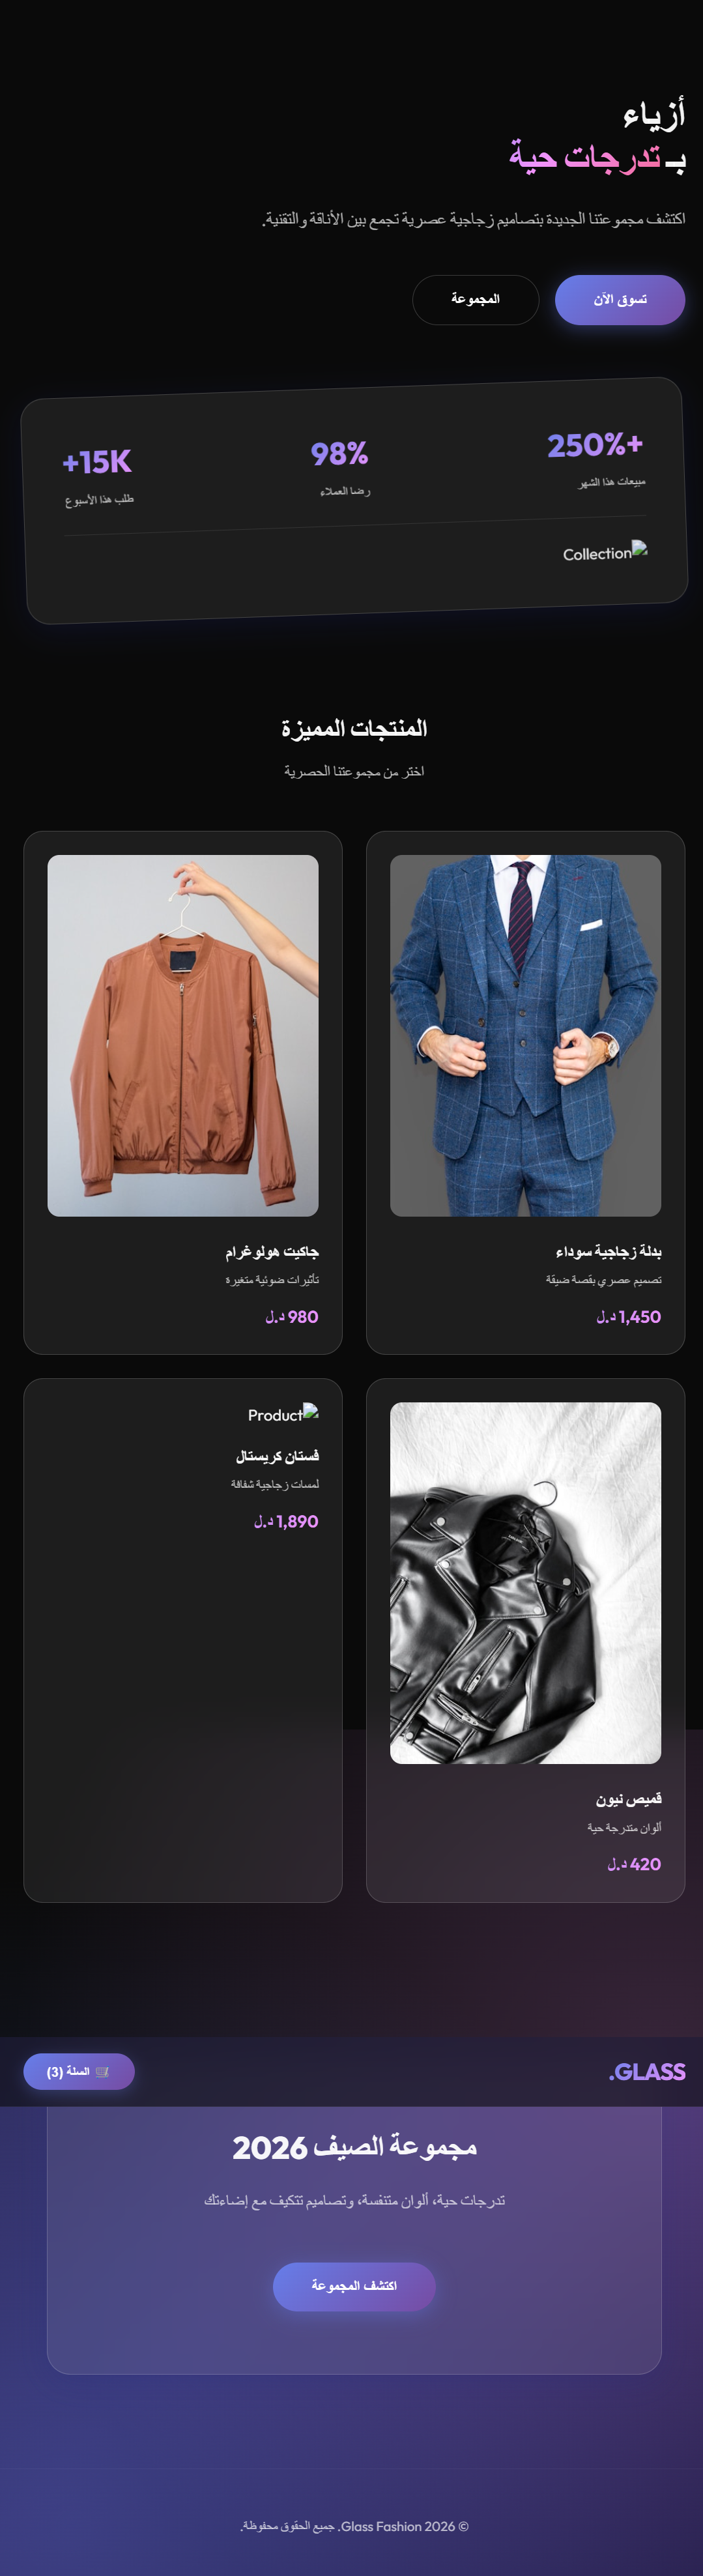
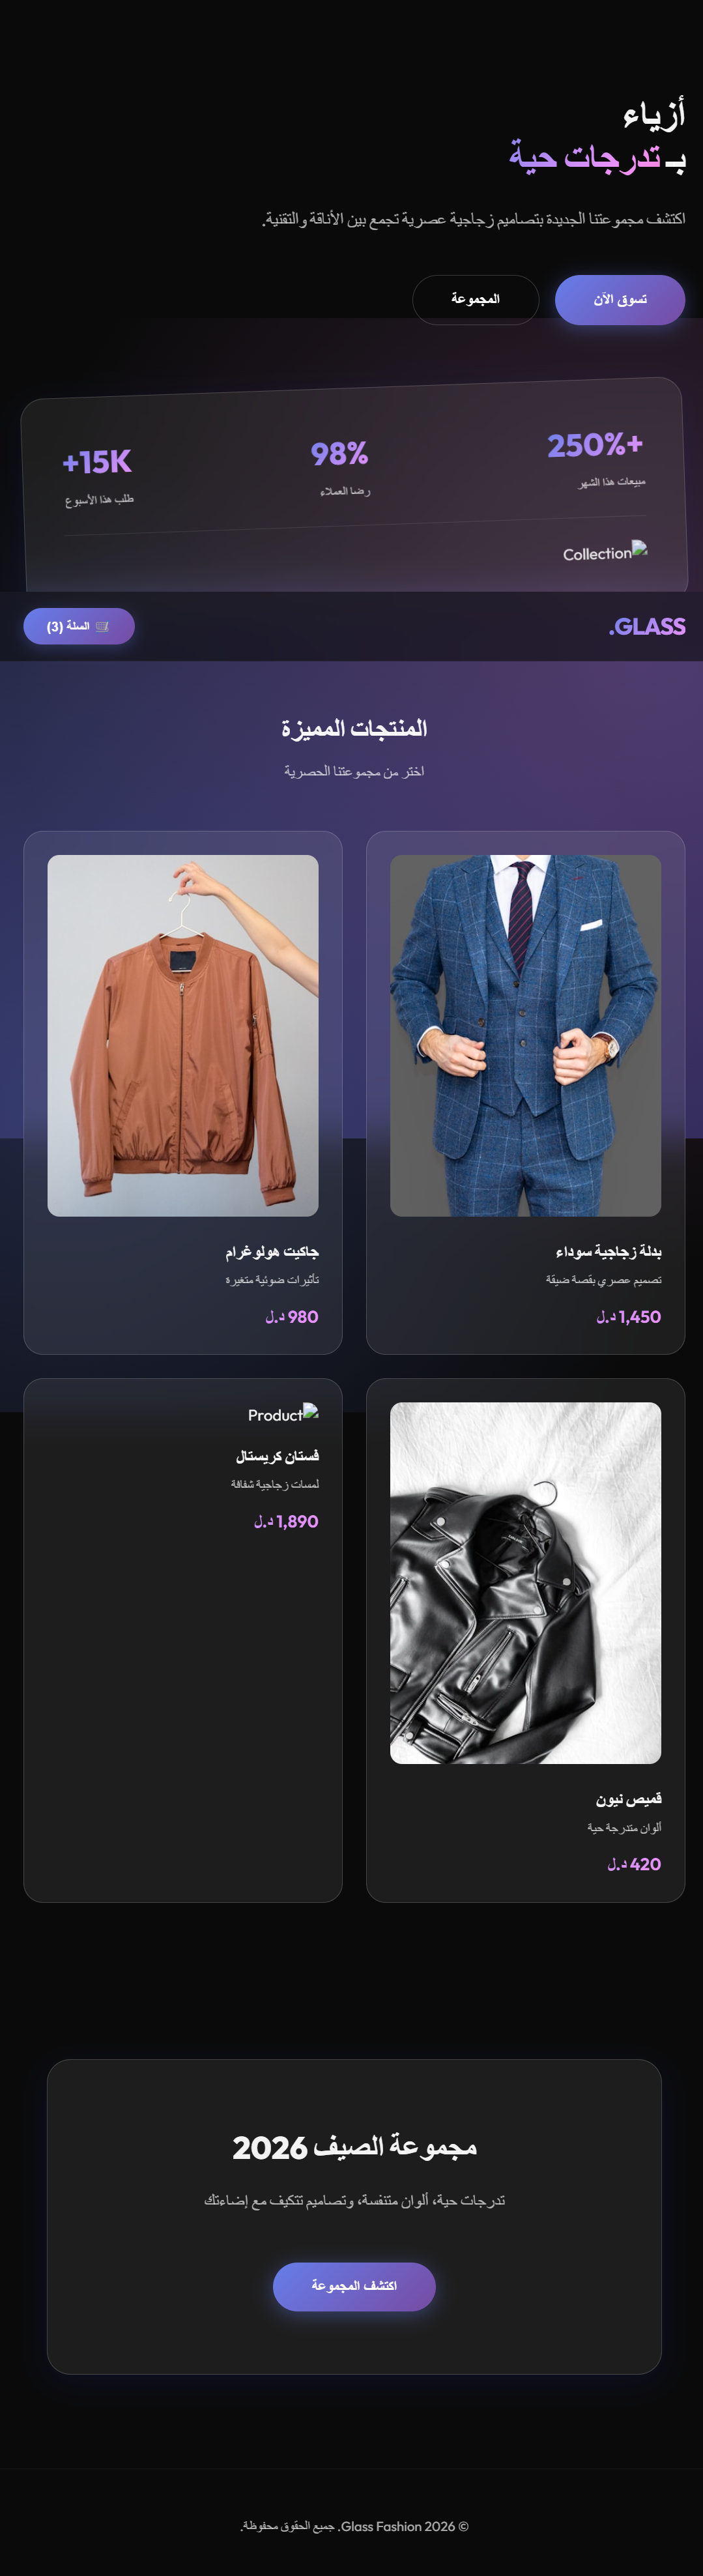
fix: fix template image names

diff --git a/store.html b/store.html
@@ -89,7 +89,7 @@ const products = [
     desc: "قالب ملابس بتجربة غامرة وتصميم جذاب",
     price: 24.99,
     cat: "ملابس",
-    img: "/images/template-immersive.png",
+    img: "/images/template-immersive-fashion.png",
     preview: "/templates/immersive_fashion.html"
   },
   {